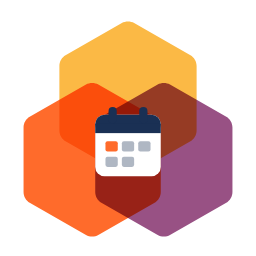
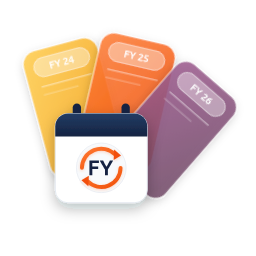
Update for 18.0.1.1.0
The changelog entry, the MCP line, the new icon and the retaken setup GIF.

diff --git a/docs/CHANGELOG.md b/docs/CHANGELOG.md
@@ -1,5 +1,23 @@
 # Changelog
 
+## 18.0.1.1.0 (2026-10-05)
+
+Fixes from testing on Odoo 18.0 Community and Enterprise, and two small features.
+
+- Enterprise's Trial Balance and General Ledger keep the Undistributed Profits/Losses row when one Financial
+  Year is selected, so they balance again.
+- Sales, Purchase and Invoice Analysis are scoped together with sales orders, purchase orders and journal
+  entries. Databases that already scope those switch them on when upgrading.
+- The Purchase dashboard's Avg Order Value, Lead Time to Purchase, Purchased Last 7 Days and RFQs Sent follow the
+  selected years.
+- An API request for Financial Years the user can't open gets an Access Error naming them, instead of the
+  current year's records.
+- The Date Field of a Financial Year Scope mapping is picked from the model's date fields, in Settings and in
+  the setup wizard.
+- The module won't install next to `ys_financial_year`, and its web client names no longer clash with it. The
+  switcher's cookie is renamed, so after upgrading each user's selection goes back to the current year once,
+  and links that carried the old `fys` key open on the current year.
+
 ## 18.0.1.0.0 (2026-09-29)
 
 First release of Financial Year Switcher for Odoo 18.0.

diff --git a/README.md b/README.md
@@ -40,7 +40,7 @@ A setup wizard opens after install. Nothing is hidden until you apply it.
 - 👥 **Decide who sees past years**: users in **Access all Financial Years** (Settings and Accounting administrators) select every year; everyone else sees the current year and any year you open to all users.
 - 📊 **Opening balances stay right**: on Odoo Enterprise, the Partner Ledger, General Ledger, Trial Balance and Aged Receivable and Payable still add up every earlier year.
 - 💬 **Errors that say what to do**: instead of "top-secret records", users are told which year a record is in.
-- 🤖 **AI assistants too**: assistants connected over MCP see exactly the years their user may.
+- 🤖 **AI assistants too**: assistants connected over MCP have no switcher, so they see every year their user may open, not just the selected one.
 - 🧭 **Set up in three steps**: your fiscal calendar, the models to scope, and a preview with record counts per year.
 
 ## Screenshots
